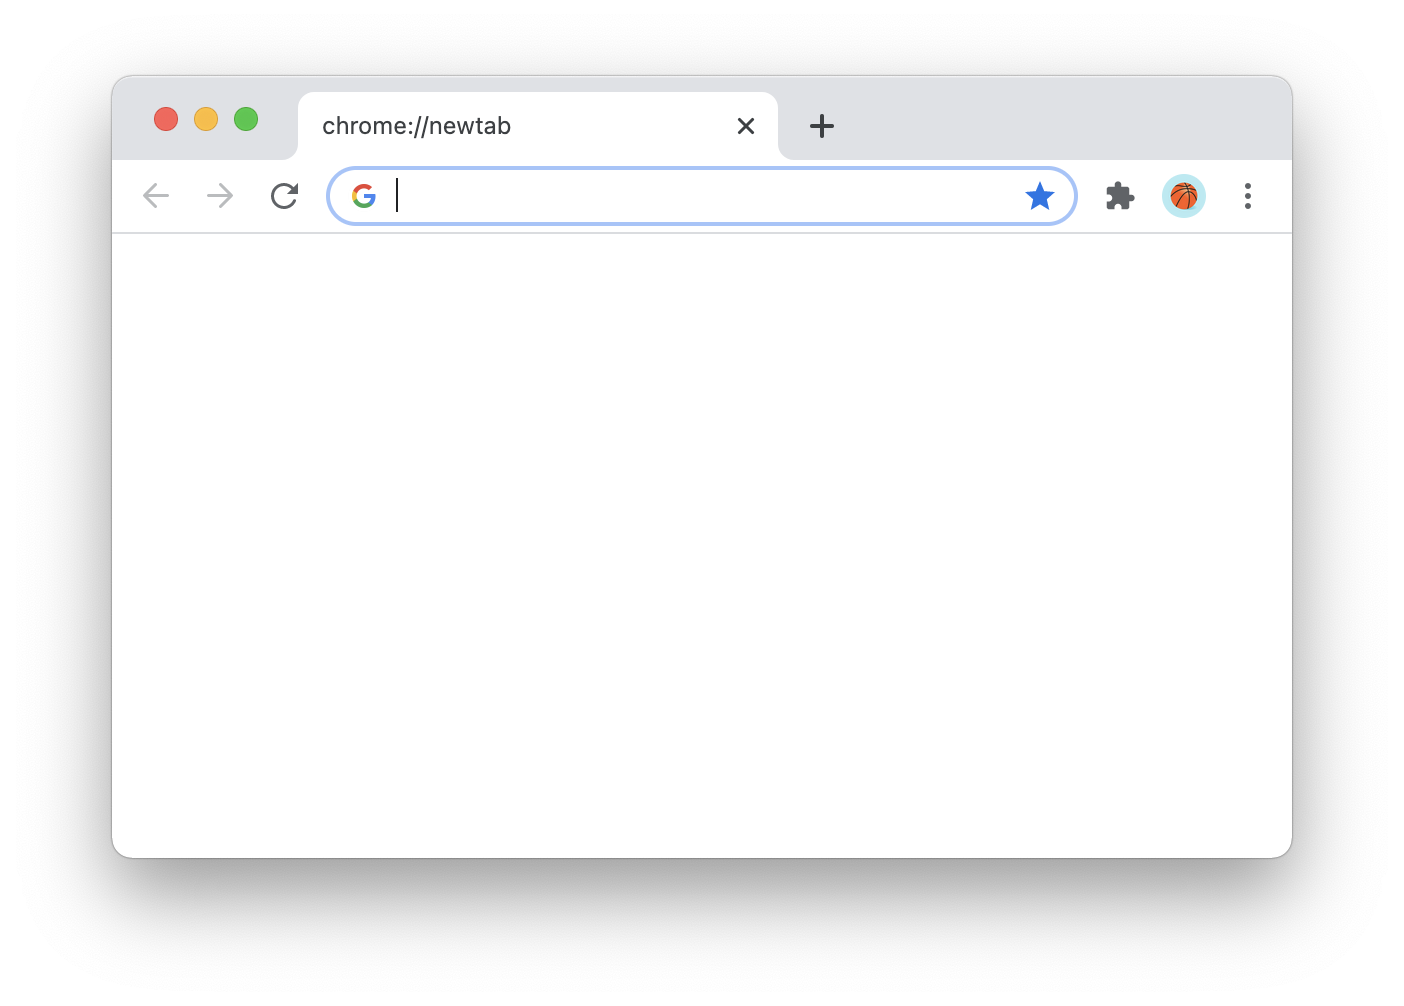
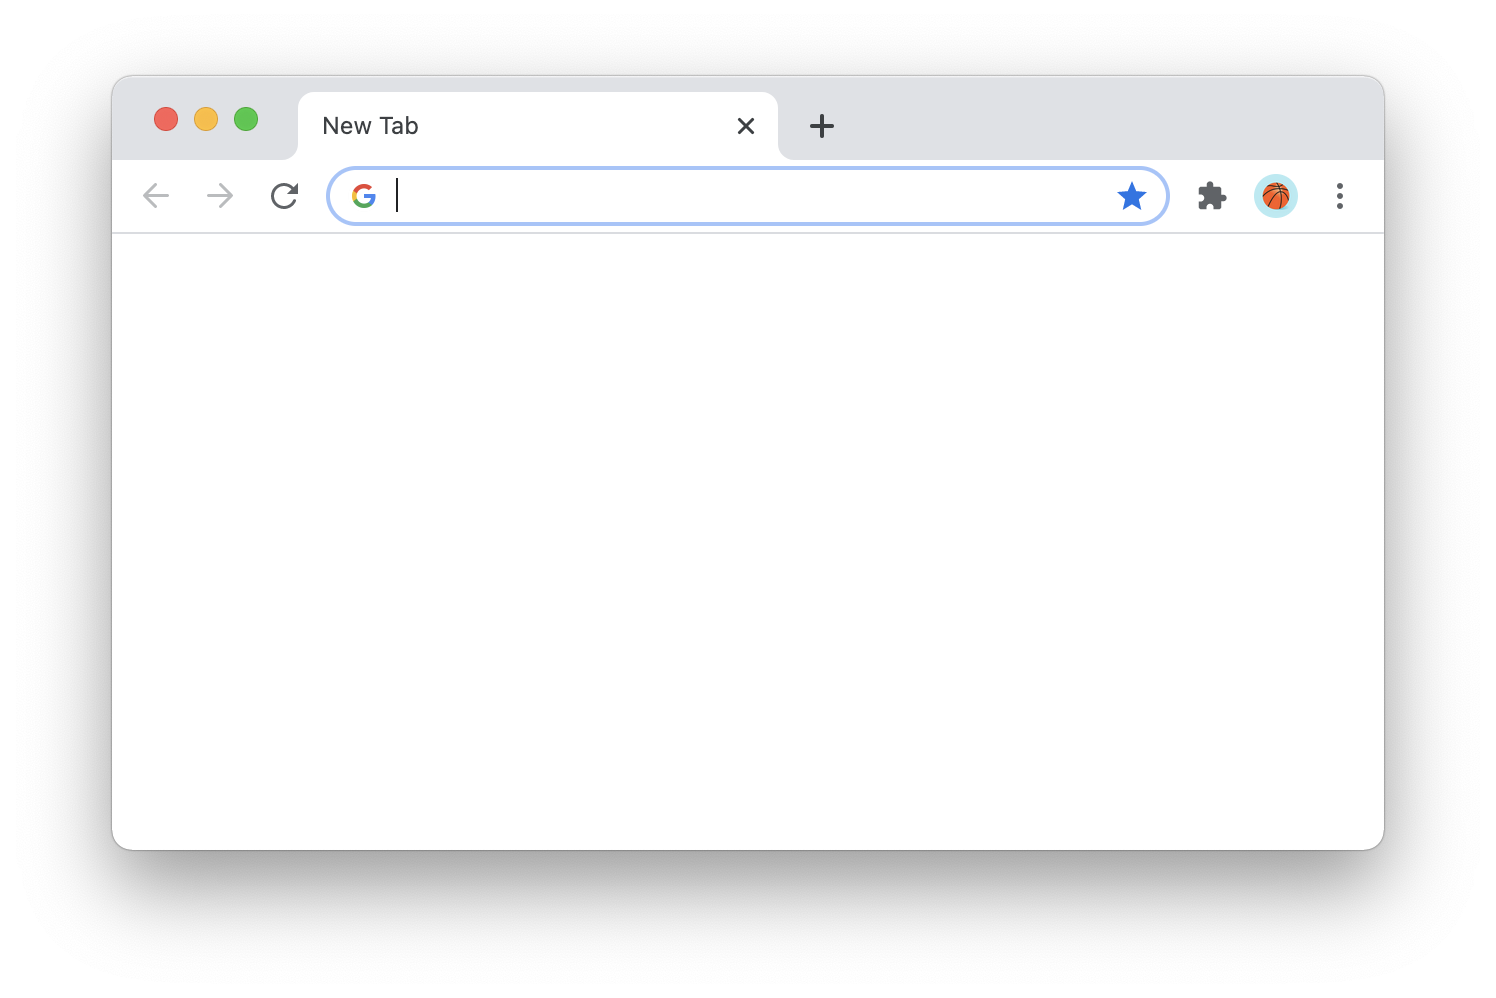
Update screenshots, add dark mode

Changed region(s): [[0.0613, 0.0932, 0.9494, 0.8387]]

diff --git a/README.md b/README.md
@@ -6,3 +6,7 @@ Available on the [Chrome Web Store](https://chrome.google.com/webstore/detail/bl
 
 ![A blank new tab](/screenshots/basic.png)
 
+
+Also supports Dark Mode.
+![A blank new tab, in dark mode](/screenshots/basic-dark.png)
+
